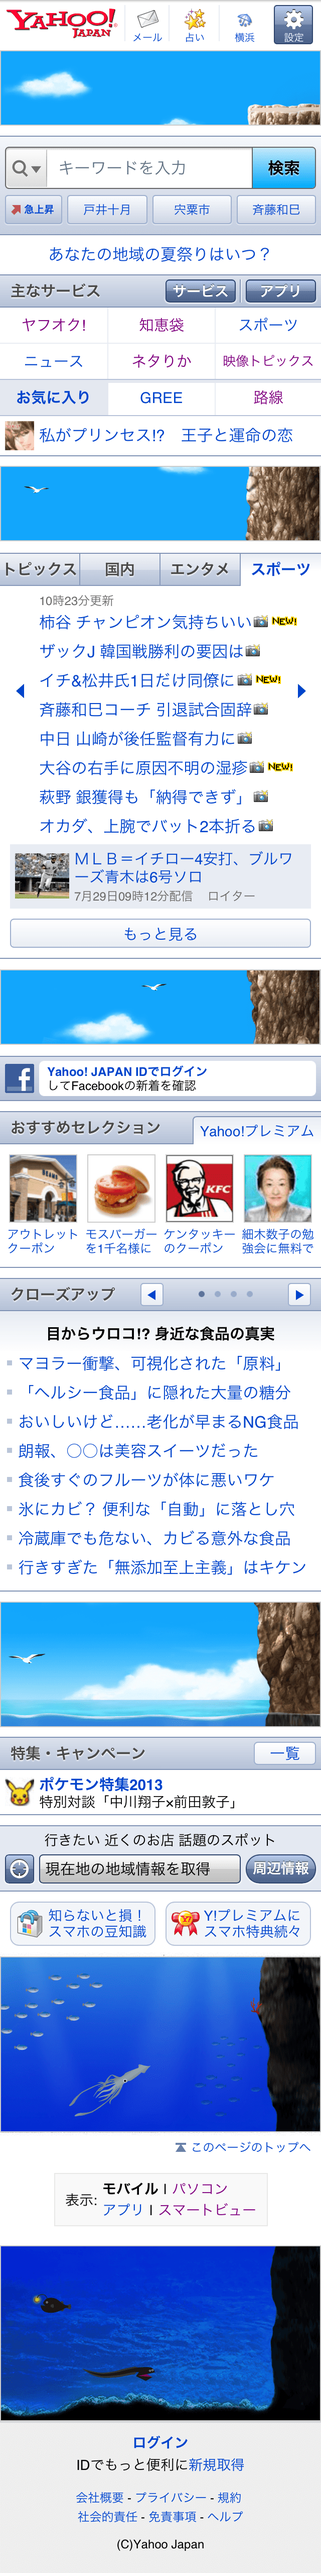
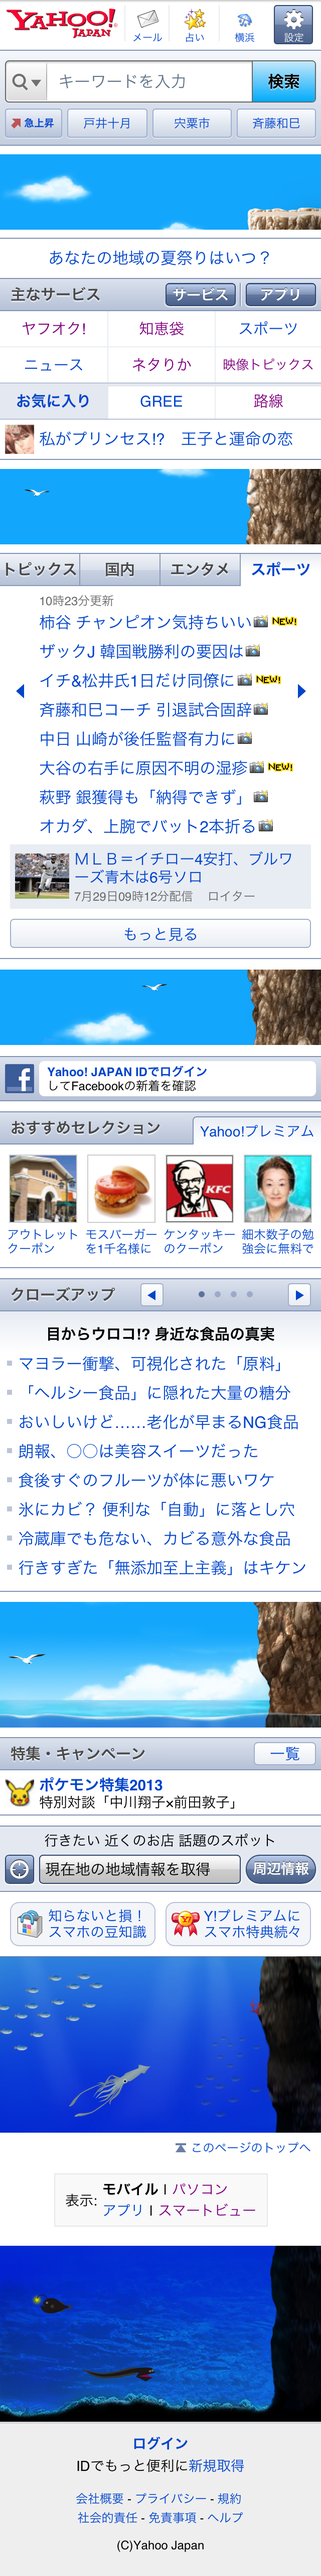
画像変更など

diff --git a/js/app.js b/js/app.js
@@ -274,7 +274,10 @@ Puppet.prototype = {
       case y < 2300 : method = "swim3";
         stage = dict["c5"];
         break;
-      case y < 4500 : method = "dig";
+      case y < 3625 : method = "dig";
+        stage = dict["c6"];
+        break;
+      case y < 6000 : method = "out";
         stage = dict["c6"];
         break;
       default       : method = "walk";     break;
@@ -297,9 +300,9 @@ Puppet.prototype = {
       stage.addChild(this.sprite);
       this.onswitchedY = y;
     }
-//console.log(y, method, dict);
+console.log(y, method, dict);
     
-    this[method](y);
+    this[method](y, stage);
     this.prevStage = stage;
   },
 
@@ -399,7 +402,14 @@ Puppet.prototype = {
     this.sprite.y = (-60 + 2*step);
     this.sprite.gotoAndStop(16+ ( step /20 | 0 )%2);
   },
-  out: function(y){
+  out: function(y, stage){
+    var step = (y-3625);
+    this.sprite.x = 30;
+    if(y < 3700) this.sprite.y = 2600 + 260 * Math.sin(step/28);
+    else this.sprite.y = 2680;
+
+
+    this.sprite.gotoAndStop(18+ ( step /13 | 0 )%11);
   }
 
 }

diff --git a/css/style.css b/css/style.css
@@ -129,11 +129,11 @@ img {
 }
 
 .bnr.bnr01{
-  top: 50px;
+  top: 155px;
 }
 
 .bnr.bnr02{
-  top: 465px;
+  top: 466px;
 }
 
 .bnr.bnr03{
